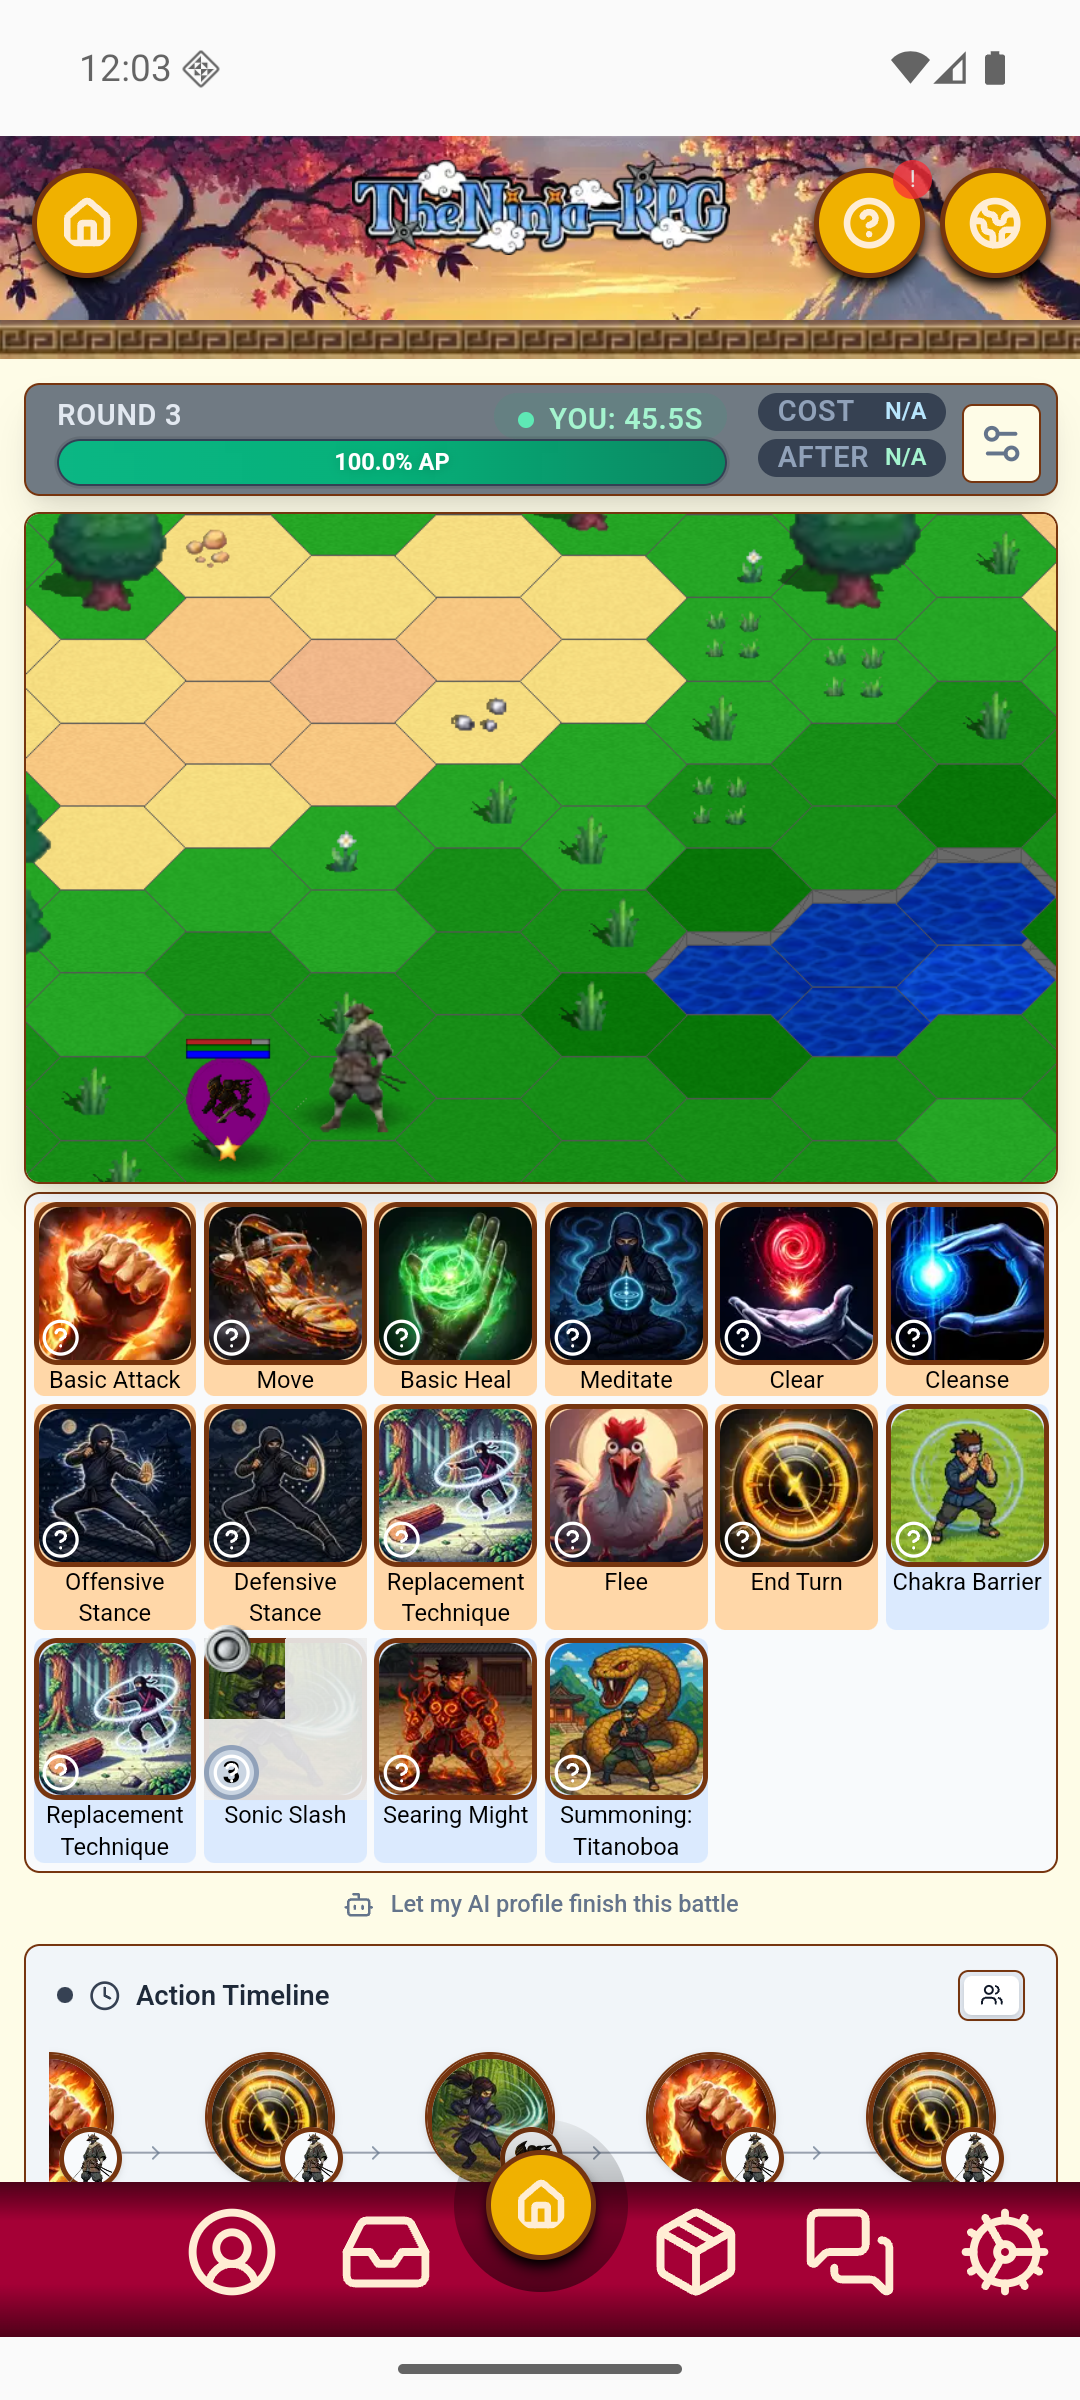
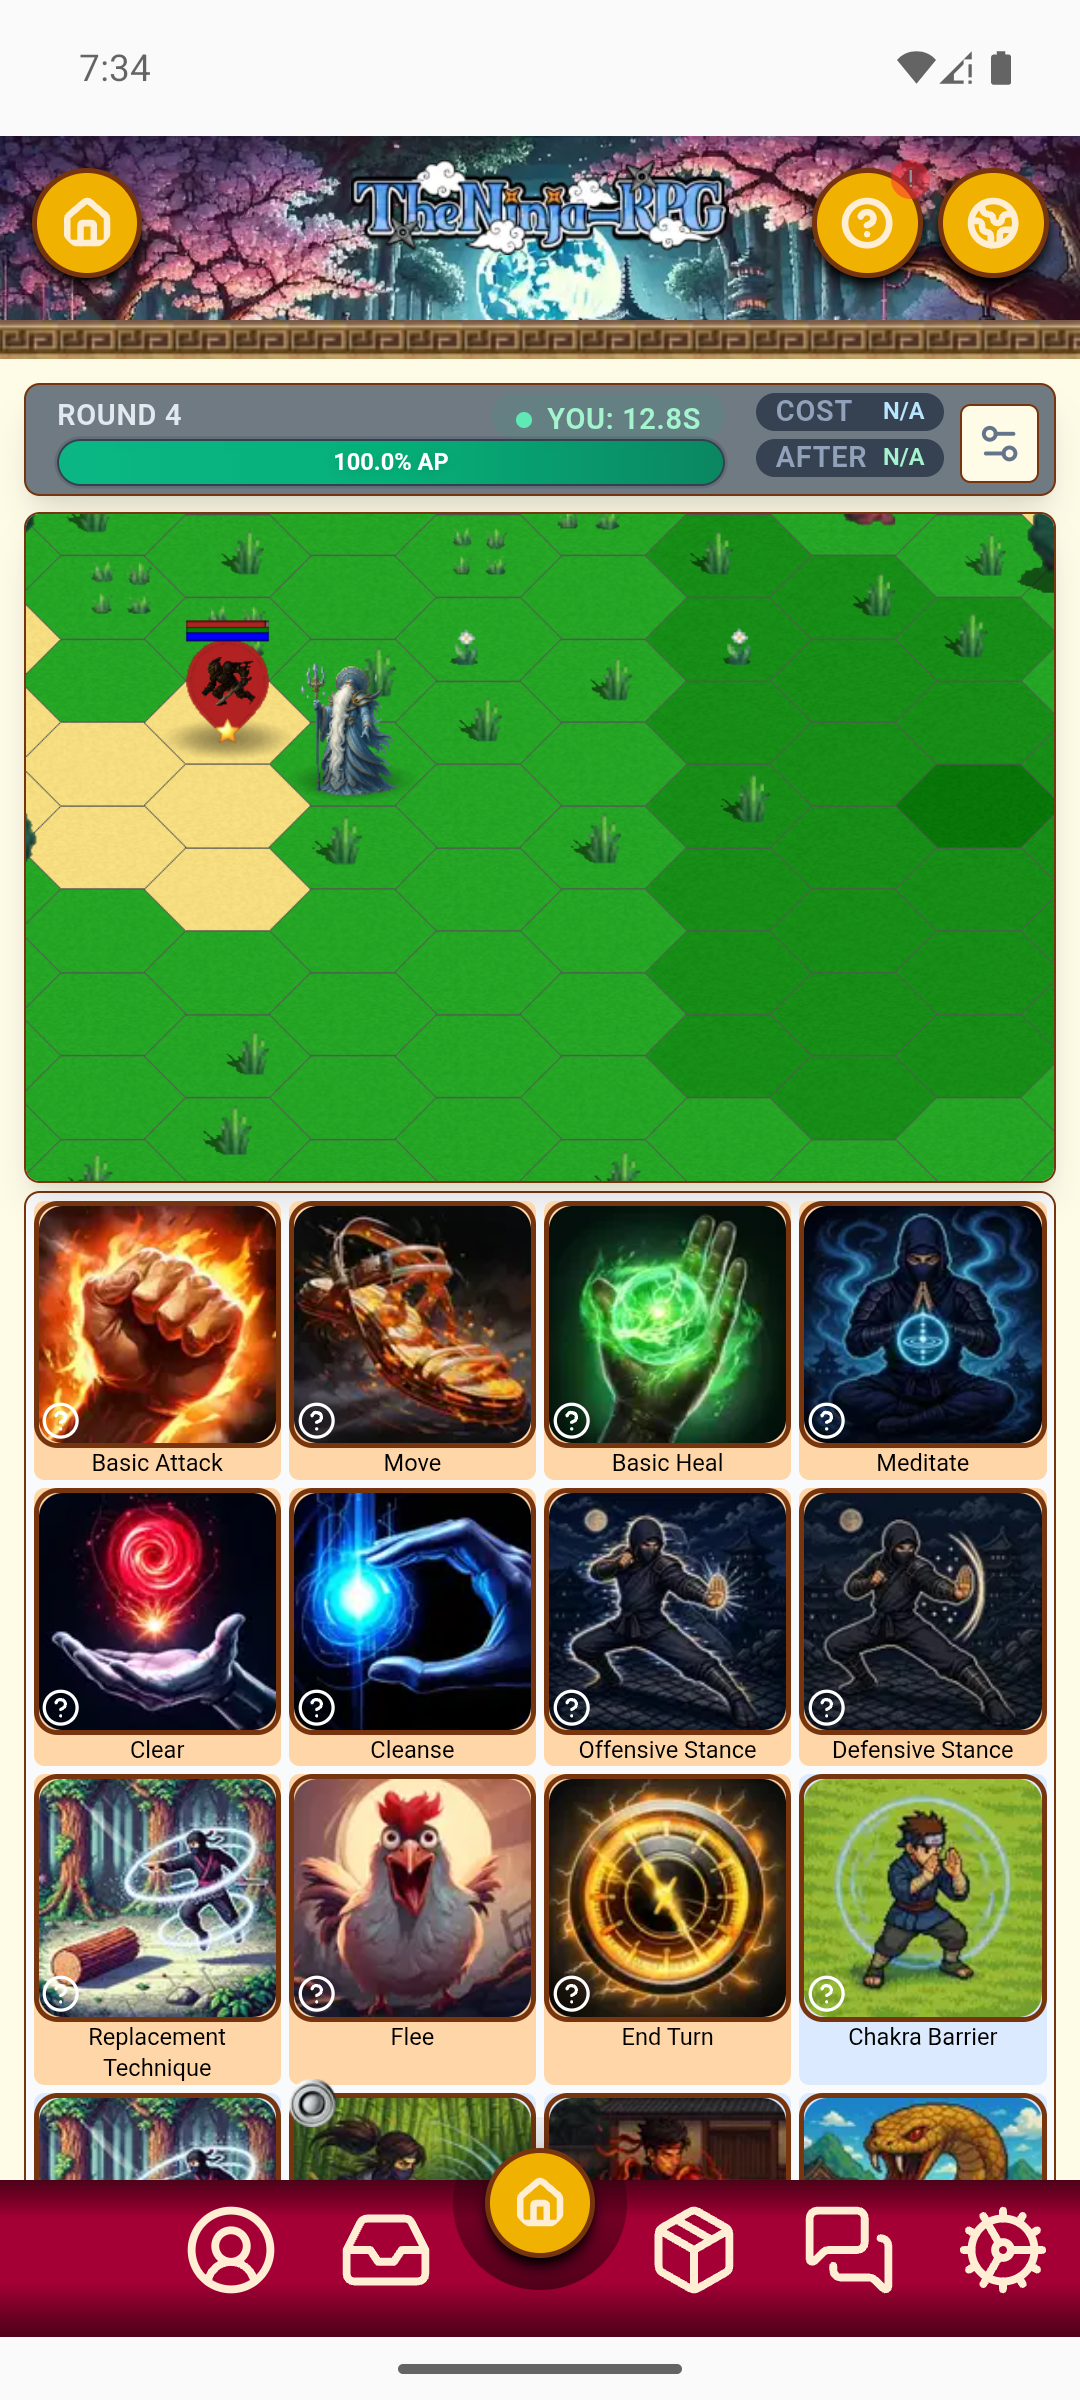
Refresh Android store screenshots for current native UI

diff --git a/assets/pr/mobile-store/README.md b/assets/pr/mobile-store/README.md
@@ -11,23 +11,28 @@ in `assets/screenshots/mobile-store/`, grouped by platform and screen size.
 | `assets/screenshots/mobile-store/ipad-13/` | 2064 × 2752 | iPad portrait screenshots |
 | `assets/screenshots/mobile-store/android-phone/` | 1080 × 2400 | Android phone screenshots |
 | `assets/screenshots/mobile-store/android-tablet/` | 1600 × 2560 | 10-inch Android tablet portrait screenshots |
-| `assets/screenshots/mobile-store/android-tablet-7-inch/` | 1920 × 1200 | 7-inch Android tablet landscape screenshots |
+| `assets/screenshots/mobile-store/android-tablet-7-inch/` | 1600 × 2560 | 7-inch Android tablet portrait screenshots |
 | `listing.en-US.json` | Text | English Google Play listing copy |
 
 Apple's app icon comes from the native asset catalog in the uploaded build.
 `feature-graphic-concept.png` is the source concept for the promotional artwork;
 it is not a gameplay screenshot.
 
-Each screen-size set has eight screenshots, ordered for the store gallery: combat, village,
-jutsu, world map, sector, profile, private chat and an alternate village. The iPhone
-set features Tsukimori and Hyorin; iPad features Tsukimori, Hyorin and Akasumi;
-Android phone features Akikaze and Horizon; both Android tablet sets feature Akasumi
-and Hyorin. Chat uses a private sample conversation between capture accounts.
+The Android phone set has eight screenshots: combat, Akikaze village, jutsu, sector,
+world map, profile, Global Tavern and Horizon village. Both Android tablet sets
+use the same seven portrait captures, omitting the alternate village. Their artwork
+shows Akikaze, Tsukimori and Horizon.
 
-Capture screenshots from the native shells using disposable accounts. Keep gameplay
-captures authentic and compare them with the signed release candidate before store
-submission. The checked-in captures use development fixtures in simulator/debug
-builds; they do not establish release-candidate validation.
+The Apple sets each have eight screenshots: combat, village, jutsu, world map,
+sector, profile, private chat and an alternate village. The iPhone set features
+Tsukimori and Hyorin; iPad features Tsukimori, Hyorin and Akasumi.
+
+Capture screenshots from the native shells. Keep gameplay captures authentic and
+compare them with the signed release candidate before store submission. Gameplay
+captures use disposable development fixtures; the Android Global Tavern images
+show the public feed in the Play internal-testing app. Apple chat images use a
+private sample conversation between capture accounts. Screenshots alone do not
+establish release-candidate validation.
 
 Keep console status, release checklists and QA evidence outside the repository.
 Never include test credentials, login tickets, private keys or account records.
